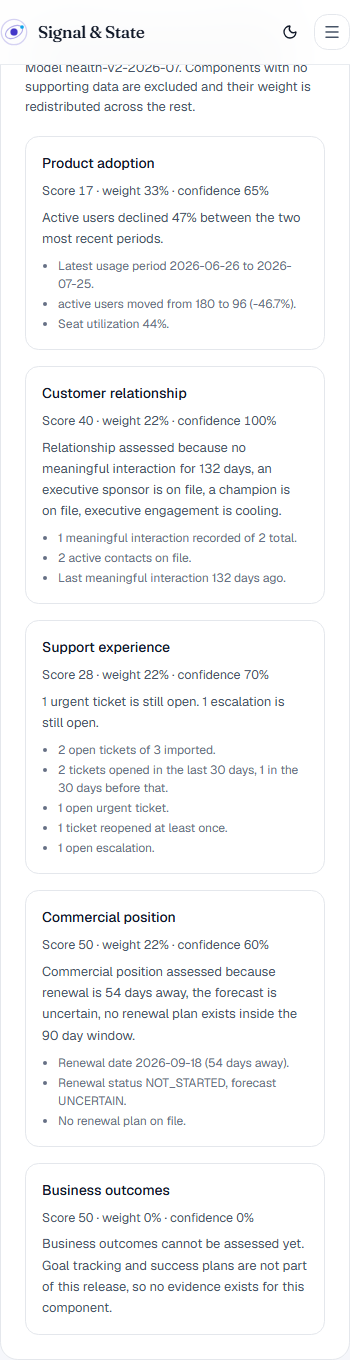
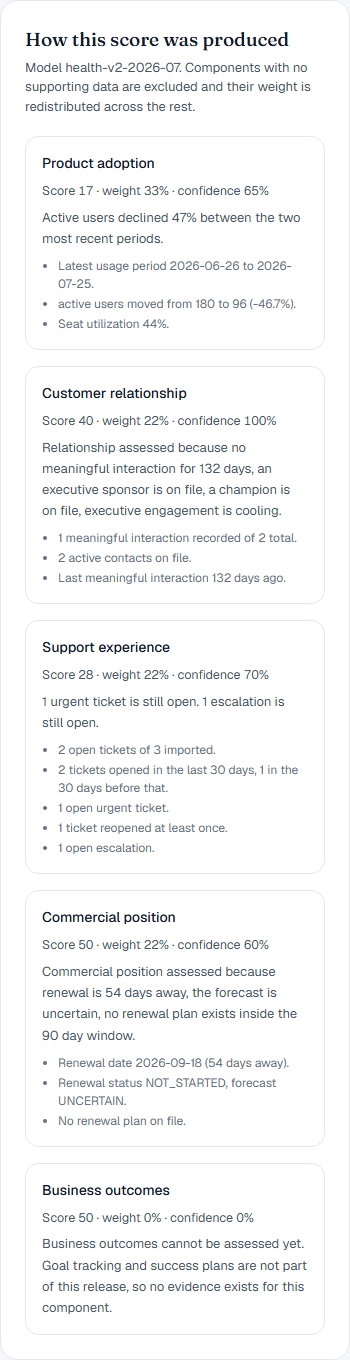
fix: stop baking the site's own navigation into the product screenshots
Every marketing screenshot had the Signal & State header sitting across the top
of it, with the launch button clipped by the right edge of the capture. The
earlier fix moved these from full-page shots to region shots, which was the
right change but not a sufficient one: Playwright captures an element's box as
it appears in the viewport, and the site header is sticky, so it kept painting
over the top of every region.

- The header carries data-site-header and the generator hides it, along with
  the fixed mobile bar, before any capture.
- Regions are scrolled to the top of the viewport before the shot, so a capture
  starts on the region's own first pixel.
- Long regions drop whole cards rather than clipping at a pixel height, so the
  bottom edge falls between two cards instead of through the middle of a
  sentence.

The declared width and height on every usage were also wrong. All eight were
hardcoded to 1440 by some multiple of a hundred, while the real files range
from 734x984 to 1112x1682. Next uses those numbers to reserve space before the
image loads, so each one was reserving the wrong box and shifting the layout on
load. They now match the files.

Two crops that existed to tame the old oversized images are gone, since the
regenerated images are already the right shape. The home hero keeps its crop:
it is a deliberate peek into a full dashboard and it fades out rather than
cutting.

diff --git a/src/app/(public)/showcase/page.tsx b/src/app/(public)/showcase/page.tsx
@@ -1,4 +1,4 @@
-import type { Metadata } from "next";
+import type { Metadata } from "next";
 import Image from "next/image";
 import { Section, SectionHeading, Prose, FeatureCard, PrimaryLink, SecondaryLink, HonestyNote } from "@/components/public/sections";
 import { ProductShot } from "@/components/public/product-shot";
@@ -196,8 +196,8 @@ export default function ShowcasePage() {
           <ProductShot
             src="/screenshots/demo-mission-control.png"
             alt="Mission Control showing fourteen customer accounts, revenue at risk, a list of accounts needing attention, and a health distribution across five bands."
-            width={1440}
-            height={1600}
+            width={1112}
+            height={1417}
             title="Mission Control"
             what="The first screen a customer success leader opens. Portfolio size, revenue at risk, renewals closing inside ninety days, and the accounts that need attention today."
             why="It replaces the weekly ritual of assembling a picture from four systems. The revenue at risk figure counts each account once, never once per risk, so it matches what the business actually has at stake."
@@ -210,8 +210,8 @@ export default function ShowcasePage() {
           <ProductShot
             src="/screenshots/demo-customer-portfolio.png"
             alt="Customer portfolio table listing fourteen fictional accounts with owner, segment, revenue, renewal date, health band, open risk count, and data confidence."
-            width={1440}
-            height={1000}
+            width={1112}
+            height={679}
             title="Customer Portfolio"
             what="Every account in one table, with saved views for at-risk, renewing soon, unowned, and incomplete records."
             why="The gaps are as visible as the data. An account with no revenue on file says so rather than showing a zero that reads like a real number."
@@ -225,8 +225,8 @@ export default function ShowcasePage() {
           <ProductShot
             src="/screenshots/demo-account-detail.png"
             alt="Account detail for Harborline Freight showing the health score decomposed into five components, each with its own score, weight, confidence, and supporting evidence records."
-            width={1440}
-            height={1800}
+            width={734}
+            height={984}
             title="Account Detail and health explanation"
             what="One account, with its health score decomposed into five weighted components. Each shows its own score, its weight, its confidence, and the individual records behind it."
             why="A score you cannot argue with is a score nobody acts on. This one can be checked line by line, and a component with no supporting data is excluded with its weight redistributed rather than averaged toward the middle."
@@ -239,8 +239,8 @@ export default function ShowcasePage() {
           <ProductShot
             src="/screenshots/demo-risk-evidence.png"
             alt="Risk radar listing open risk signals, each with what changed, current state, supporting evidence, potential impact, recommended action, and a confidence percentage."
-            width={1440}
-            height={1400}
+            width={1112}
+            height={782}
             title="Risk explanation"
             what="Open risks from eleven deterministic rules. Each carries what changed, the current state, the supporting evidence, the potential impact, the recommended response, and a confidence value."
             why="The evidence is the product. A risk that says an account is disengaged is an opinion; one that names the interactions it counted and the threshold it compared against is something a team can act on or dismiss on the merits."
@@ -254,8 +254,8 @@ export default function ShowcasePage() {
           <ProductShot
             src="/screenshots/demo-executive-brief.png"
             alt="Executive brief with sections covering executive summary, what changed, portfolio health, revenue at risk, upcoming renewals, data readiness, and what the assessment cannot see."
-            width={1440}
-            height={1600}
+            width={1112}
+            height={1682}
             title="Executive Brief"
             what="Sixteen sections assembled from counts, sums, and rules, including one section on what the assessment cannot see and another on how the brief was produced."
             why="Leadership reads quickly. A section with nothing to report says so and says why, because no renewal dates on file and no upcoming renewals mean completely different things."

diff --git a/e2e/screenshots.spec.ts b/e2e/screenshots.spec.ts
@@ -42,6 +42,13 @@ async function prepare(page: Page) {
   await page.addStyleTag({
     content: `
       nextjs-portal { display: none !important; }
+      /*
+        Playwright captures an element's box as it appears in the viewport, so
+        anything painted over that box lands in the image. The site header is
+        sticky and the mobile bar is fixed, which is why the marketing shots
+        were showing the site's own navigation, clipped, inside a browser frame.
+      */
+      [data-site-header], nav.fixed { display: none !important; }
       *, *::before, *::after {
         animation-duration: 0s !important;
         animation-delay: 0s !important;
@@ -77,7 +84,7 @@ async function captureRegion(
   path: string,
   name: string,
   selector: string,
-  maxHeight?: number
+  maxItems?: number
 ) {
   await page.goto(path);
   const region = page.locator(selector).first();
@@ -85,16 +92,23 @@ async function captureRegion(
   await prepare(page);
 
   // A list of 32 risks produces a very tall, very heavy image that reads as a
-  // strip rather than as a screen. Clipping to a sensible height keeps the
-  // aspect ratio usable and the file small, and the demo is one click away for
-  // anyone who wants the whole list.
-  if (maxHeight) {
-    await region.evaluate((element, height) => {
-      const node = element as HTMLElement;
-      node.style.maxHeight = `${height}px`;
-      node.style.overflow = "hidden";
-    }, maxHeight);
+  // strip rather than as a screen. Dropping whole cards rather than clipping at
+  // a pixel height means the bottom edge falls between two cards instead of
+  // through the middle of a sentence, which is what made these look accidental.
+  if (maxItems) {
+    await region.evaluate((element, count) => {
+      Array.from(element.children)
+        .slice(count)
+        .forEach((child) => child.remove());
+    }, maxItems);
   }
+
+  // The sticky header is hidden, but the region can still be scrolled under
+  // where it was. Bring the top of the region to the top of the viewport so the
+  // capture starts on the region's own first pixel.
+  await region.evaluate((element) => {
+    element.scrollIntoView({ block: "start", behavior: "instant" });
+  });
 
   await region.screenshot({ path: resolve(OUTPUT_DIR, name), animations: "disabled" });
 }
@@ -109,7 +123,7 @@ test.describe("demo screenshots", () => {
     await captureRegion(page, "/demo", "demo-mission-control.png", '[data-shot="mission-control"]');
     await captureRegion(page, "/demo/accounts", "demo-customer-portfolio.png", '[data-shot="portfolio"]');
     await captureRegion(page, "/demo/accounts/harborline", "demo-account-detail.png", '[data-shot="account-detail"]');
-    await captureRegion(page, "/demo/risks", "demo-risk-evidence.png", '[data-shot="risks"]', 900);
+    await captureRegion(page, "/demo/risks", "demo-risk-evidence.png", '[data-shot="risks"]', 3);
 
     // The executive brief exists only after the intelligence pipeline has run,
     // which the end-to-end seed does not do. Skip rather than overwrite a good
@@ -117,12 +131,12 @@ test.describe("demo screenshots", () => {
     await page.goto("/demo/brief");
     const brief = page.locator('[data-shot="brief"]');
     if ((await brief.count()) > 0) {
-      await captureRegion(page, "/demo/brief", "demo-executive-brief.png", '[data-shot="brief"]', 1100);
+      await captureRegion(page, "/demo/brief", "demo-executive-brief.png", '[data-shot="brief"]', 6);
     } else {
       console.log("Skipping the executive brief capture: no brief in this database.");
     }
 
-    await captureRegion(page, "/demo/actions", "demo-recommended-actions.png", "main > div > div:last-child", 900);
+    await captureRegion(page, "/demo/actions", "demo-recommended-actions.png", "main > div > div:last-child", 4);
     await capture(page, "/demo/renewals", "demo-renewals.png", /Renewal center/i);
   });
 

diff --git a/src/app/(public)/page.tsx b/src/app/(public)/page.tsx
@@ -72,8 +72,8 @@ export default function HomePage() {
             <AppFrame
               src="/screenshots/demo-mission-control.png"
               alt="Ground Control Mission Control showing fourteen fictional customer accounts, revenue at risk, a ranked list of accounts needing attention, and a health distribution across five bands."
-              width={1440}
-              height={1600}
+              width={1112}
+              height={1417}
               priority
               className="max-h-[560px] overflow-hidden"
             />
@@ -129,10 +129,9 @@ export default function HomePage() {
             <AppFrame
               src="/screenshots/demo-account-detail.png"
               alt="An account detail view showing a health score decomposed into five weighted components, each with its own score, weight, confidence percentage, and the individual records behind it."
-              width={1440}
-              height={1800}
+              width={734}
+              height={984}
               label="signal-and-state-ground-control.vercel.app/demo/accounts/harborline"
-              className="max-h-[520px] overflow-hidden"
             />
           </div>
 

diff --git a/src/components/public/public-shell.tsx b/src/components/public/public-shell.tsx
@@ -27,7 +27,15 @@ export function PublicShell({ children }: { children: React.ReactNode }) {
         Skip to content
       </a>
 
-      <header className="sticky top-0 z-40 border-b border-border/80 bg-surface/80 backdrop-blur-xl">
+      {/*
+        data-site-header lets the screenshot generator hide this. It is sticky,
+        so it sits over the top of any product region captured below it and
+        would otherwise be baked into the marketing images.
+      */}
+      <header
+        data-site-header=""
+        className="sticky top-0 z-40 border-b border-border/80 bg-surface/80 backdrop-blur-xl"
+      >
         <div className="mx-auto flex h-16 max-w-6xl items-center justify-between gap-4 px-5">
           <Link href="/" className="group flex items-center gap-2.5" aria-label="Signal and State home">
             <LogoMark className="h-7 w-7 transition-transform duration-200 group-hover:scale-105" />

diff --git a/src/app/(public)/ground-control/page.tsx b/src/app/(public)/ground-control/page.tsx
@@ -66,10 +66,9 @@ export default function GroundControlPage() {
             <AppFrame
               src="/screenshots/demo-risk-evidence.png"
               alt="Risk radar listing open risk signals, each with what changed, the current state, supporting evidence, potential impact, recommended action, and a confidence percentage."
-              width={1440}
-              height={1400}
+              width={1112}
+              height={782}
               label="signal-and-state-ground-control.vercel.app/demo/risks"
-              className="max-h-[460px] overflow-hidden"
             />
           </div>
         </div>
